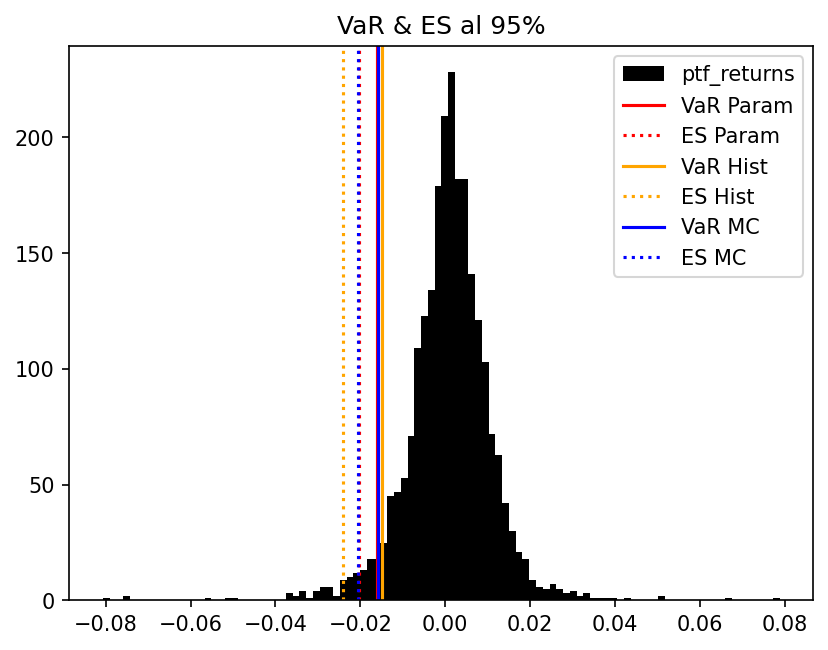
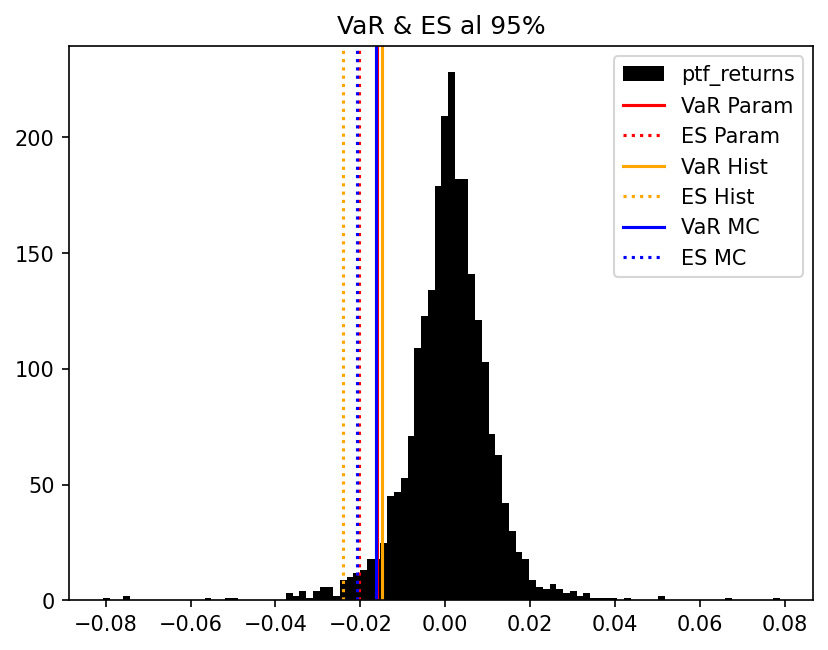
solved minor issuer with ES formula

Changed region(s): [[0.4529, 0.0615, 0.4831, 0.9231]]

diff --git a/b_parametric.py b/b_parametric.py
@@ -11,7 +11,7 @@ def VaR_parametric(w:pd.Series, rend:pd.DataFrame, alpha:float = 0.95) -> tuple[
     vol_ptf = np.sqrt(w@Sigma@w)
     
     # Calcolo VaR e ES del ptf con confidenza alpha
-    VaR = -(mu_ptf + vol_ptf * stats.norm.ppf(1-alpha))
-    ES = -(mu_ptf - vol_ptf * stats.norm.pdf(stats.norm.ppf(1-alpha))/(1-alpha))
+    VaR = -(mu_ptf - vol_ptf * stats.norm.ppf(alpha))
+    ES = -(mu_ptf - vol_ptf * stats.norm.pdf(stats.norm.ppf(alpha))/(1-alpha))
     
     return (VaR,ES)